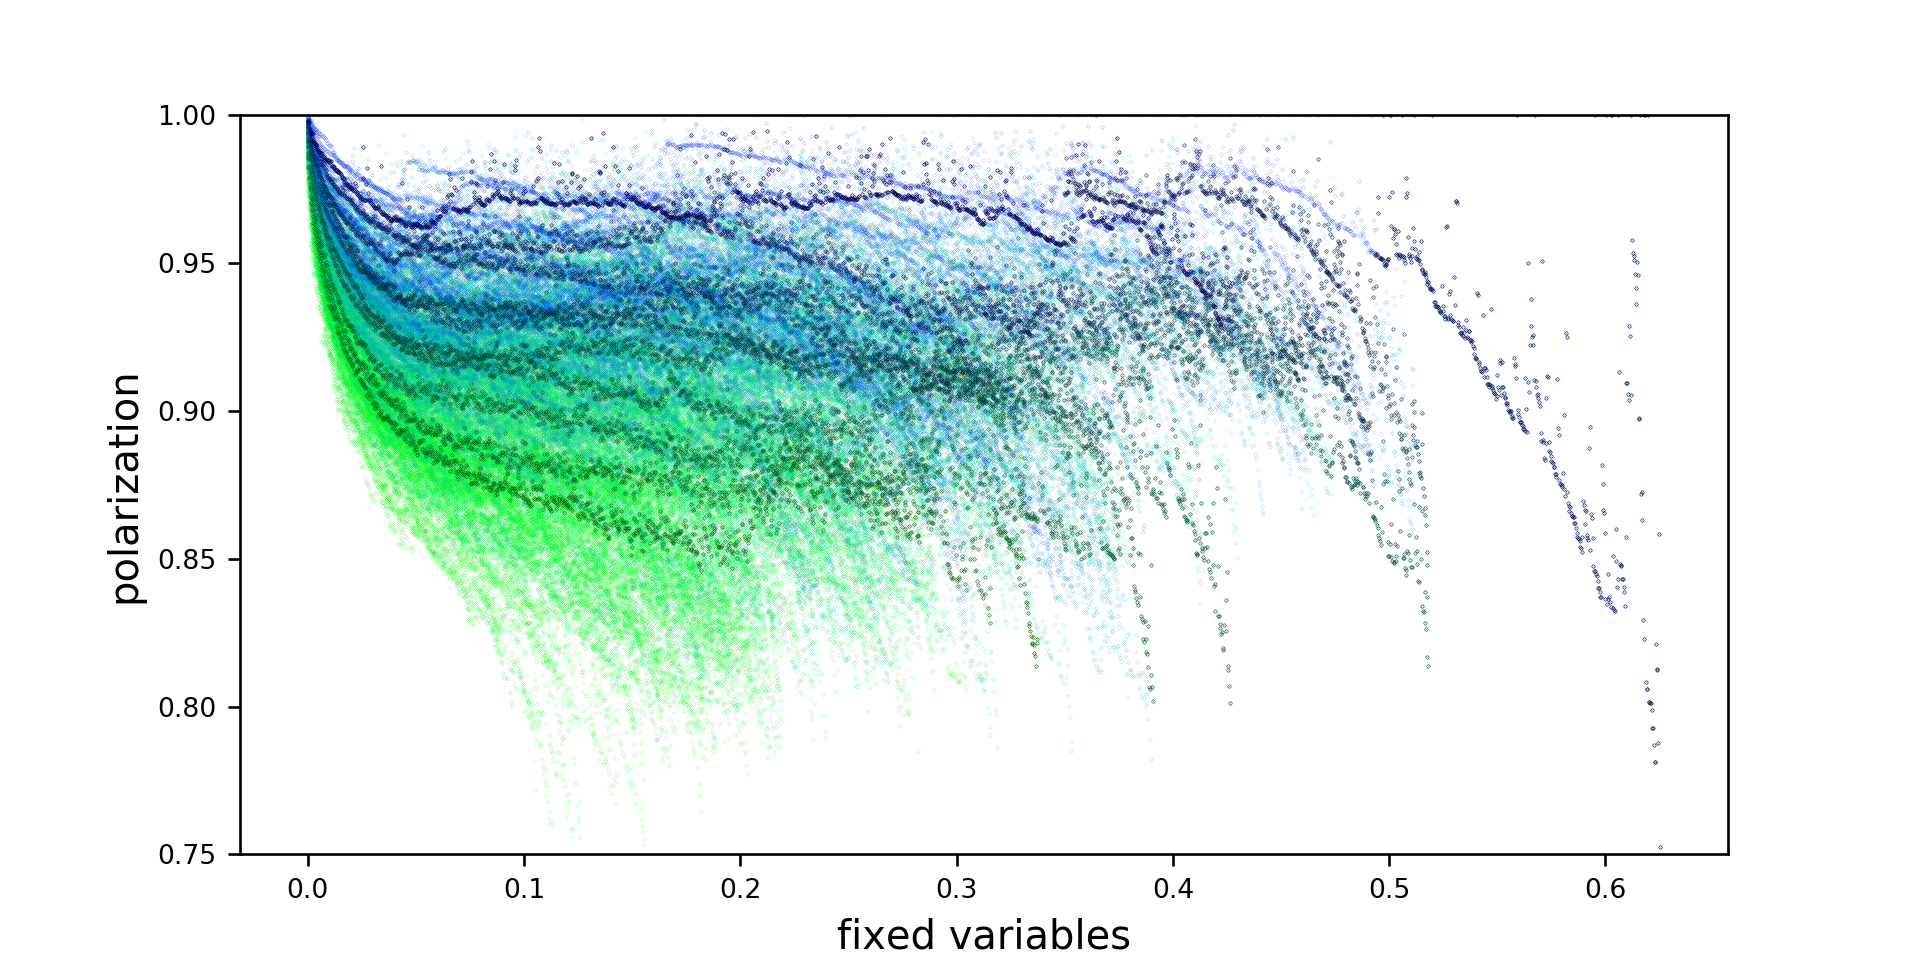
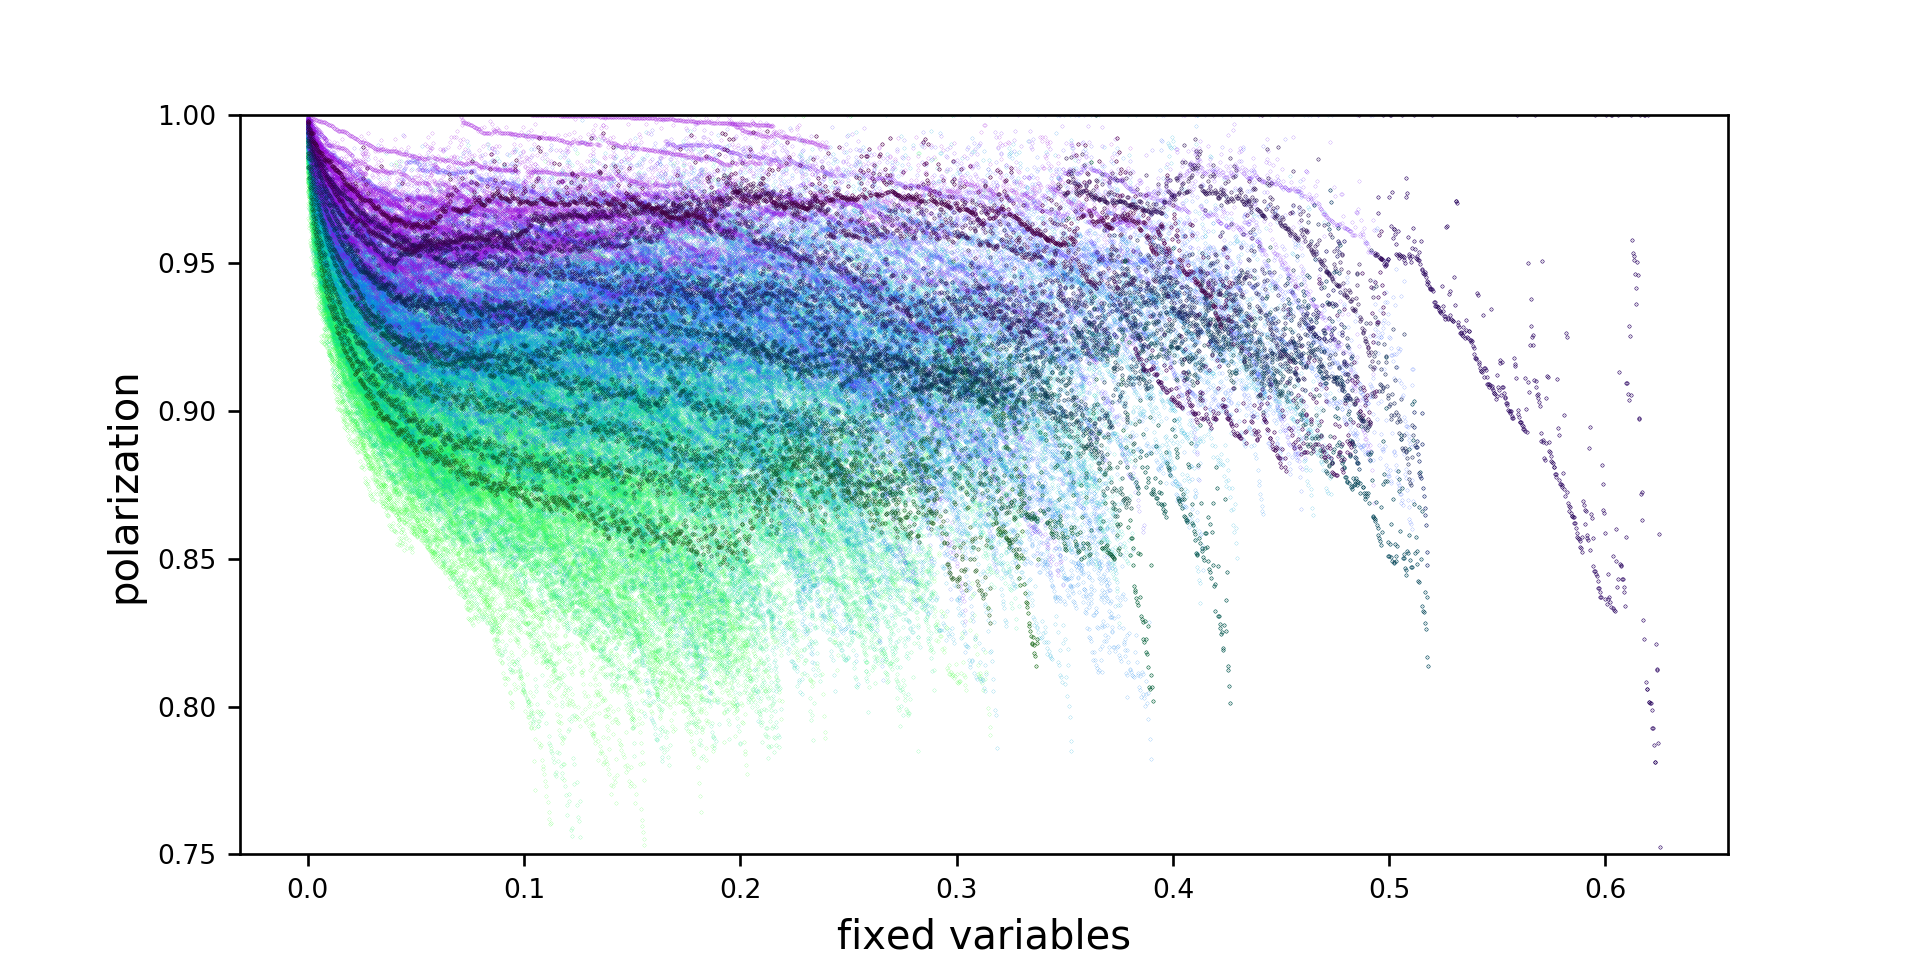
fast parallel version

Changed region(s): [[0.1562, 0.0938, 0.7188, 0.7188], [0.7812, 0.4062, 0.8125, 0.4375], [0.7188, 0.25, 0.75, 0.2812]]

diff --git a/plot/plot_survey_post.py b/plot/plot_survey_post.py
@@ -37,7 +37,18 @@ for M in range(M_min, M_max + N/10, N/10):
 
 series_count -= 1
 
-RAINBOW=True
+RAINBOW = (len(sys.argv) == 2 and sys.argv[1] == 'r')
+
+def get_color(ratio):
+  rate = -math.pi
+  phase = -2*math.pi/3
+  r = 0.5 + math.cos(ratio * rate + phase)/2
+  g = 0.5 + math.cos(ratio * rate + 2*math.pi/3 + phase)/2
+  b = 0.5 + math.cos(ratio * rate + 4*math.pi/3 + phase)/2
+  return (r, g, b)
+
+def darken(color):
+  return (color[0] / 3, color[1] / 3, color[2] / 3)
 
 # lines per M, all together
 set_settings('sigma (nats)', 'fixed variables')
@@ -48,7 +59,7 @@ if RAINBOW:
       color_ratio = float(color_counter) / series_count
     else:
       color_ratio = 0
-    cur_color_sample = (0., math.cos(color_ratio * math.pi/2), math.sin(color_ratio * math.pi/2))
+    cur_color_sample = get_color(color_ratio)
 
     try:
       step_sigma = np.load('plot/survey_pre/survey_{}_step_sigma.npy'.format(M))
@@ -76,9 +87,9 @@ for M in range(M_min, M_max + N/10, N/10):
     color_ratio = 0
 
   if RAINBOW:
-    cur_color_avg = (0., math.cos(color_ratio * math.pi/2)/3, math.sin(color_ratio * math.pi/2)/3)
+    cur_color_avg = darken(get_color(color_ratio))
   else:
-    cur_color_avg = (0., math.cos(color_ratio * math.pi/2), math.sin(color_ratio * math.pi/2))
+    cur_color_avg = get_color(color_ratio)
 
   try:
     avg_sigma = np.load('plot/survey_pre/survey_{}_avg_sigma.npy'.format(M))
@@ -105,7 +116,7 @@ if RAINBOW:
       color_ratio = float(color_counter) / series_count
     else:
       color_ratio = 0
-    cur_color_sample = (0., math.cos(color_ratio * math.pi/2), math.sin(color_ratio * math.pi/2))
+    cur_color_sample = get_color(color_ratio)
 
     try:
       step_polar= np.load('plot/survey_pre/survey_{}_step_polar.npy'.format(M))
@@ -133,9 +144,9 @@ for M in range(M_min, M_max*5 + N/10, N/10):
     color_ratio = 0
 
   if RAINBOW:
-    cur_color_avg = (0., math.cos(color_ratio * math.pi/2)/3, math.sin(color_ratio * math.pi/2)/3)
+    cur_color_avg = darken(get_color(color_ratio))
   else:
-    cur_color_avg = (0., math.cos(color_ratio * math.pi/2), math.sin(color_ratio * math.pi/2))
+    cur_color_avg = get_color(color_ratio)
 
   try:
     avg_polar = np.load('plot/survey_pre/survey_{}_avg_polar.npy'.format(M))

diff --git a/plot/plot_phase_post.py b/plot/plot_phase_post.py
@@ -32,7 +32,18 @@ for M in range(12240, 12900, 60):
 
 series_count -= 1
 
-RAINBOW=False
+RAINBOW = (len(sys.argv) == 2 and sys.argv[1] == 'r')
+
+def get_color(ratio):
+  rate = -math.pi
+  phase = -2*math.pi/3
+  r = 0.5 + math.cos(ratio * rate + phase)/2
+  g = 0.5 + math.cos(ratio * rate + 2*math.pi/3 + phase)/2
+  b = 0.5 + math.cos(ratio * rate + 4*math.pi/3 + phase)/2
+  return (r, g, b)
+
+def darken(color):
+  return (color[0] / 3, color[1] / 3, color[2] / 3)
 
 # lines per M, all together
 set_settings('sigma (nats)', 'fixed variables')
@@ -43,7 +54,7 @@ if RAINBOW:
       color_ratio = float(color_counter) / series_count
     else:
       color_ratio = 0
-    cur_color_sample = (0., math.cos(color_ratio * math.pi/2), math.sin(color_ratio * math.pi/2))
+    cur_color_sample = get_color(color_ratio)
 
     try:
       step_sigma = np.load('plot/phase_pre/phase_{}_step_sigma.npy'.format(M))
@@ -71,9 +82,9 @@ for M in range(12240, 12900, 60):
     color_ratio = 0
 
   if RAINBOW:
-    cur_color_avg = (0., math.cos(color_ratio * math.pi/2)/3, math.sin(color_ratio * math.pi/2)/3)
+    cur_color_avg = darken(get_color(color_ratio))
   else:
-    cur_color_avg = (0., math.cos(color_ratio * math.pi/2), math.sin(color_ratio * math.pi/2))
+    cur_color_avg = get_color(color_ratio)
 
   try:
     avg_sigma = np.load('plot/phase_pre/phase_{}_avg_sigma.npy'.format(M))
@@ -101,7 +112,7 @@ if RAINBOW:
       color_ratio = float(color_counter) / series_count
     else:
       color_ratio = 0
-    cur_color_sample = (0., math.cos(color_ratio * math.pi/2), math.sin(color_ratio * math.pi/2))
+    cur_color_sample = get_color(color_ratio)
 
     try:
       step_polar= np.load('plot/phase_pre/phase_{}_step_polar.npy'.format(M))
@@ -129,9 +140,9 @@ for M in range(12240, 12900, 60):
     color_ratio = 0
 
   if RAINBOW:
-    cur_color_avg = (0., math.cos(color_ratio * math.pi/2)/3, math.sin(color_ratio * math.pi/2)/3)
+    cur_color_avg = darken(get_color(color_ratio))
   else:
-    cur_color_avg = (0., math.cos(color_ratio * math.pi/2), math.sin(color_ratio * math.pi/2))
+    cur_color_avg = get_color(color_ratio)
 
   try:
     avg_polar = np.load('plot/phase_pre/phase_{}_avg_polar.npy'.format(M))

diff --git a/survey_omp.c b/survey_omp.c
@@ -82,7 +82,6 @@ int main(int argc, char *argv[]) {
   int *zero_th = calloc(8, sizeof(int));
 
   omp_lock_t *flocks = calloc(graph.M, sizeof(omp_lock_t));
-  #pragma omp parallel for num_threads(8)
   for (int a = 0; a < graph.M; a++) {
     omp_init_lock(&flocks[a]);
   }
@@ -407,7 +406,7 @@ int main(int argc, char *argv[]) {
     int *f = calloc(graph.M, sizeof(int)); // 1: satisfied, 0: still unsat
     int ff = 0; // count of satisfied factors
     int would_ff = 0; // would be sat if we picked the other direction
-    #pragma omp parallel for num_threads(8) reduction(+:ff,would_ff)
+    //#pragma omp parallel for num_threads(8) reduction(+:ff,would_ff)
     for (int a = 0; a < graph.v[fix].k; a++) {
       int b = graph.v[fix].f[a].f->a;
       if (f[b] != 1 && graph.v[fix].f[a].j * dir == -1) {
@@ -462,9 +461,15 @@ int main(int argc, char *argv[]) {
     // if the set var sat a clause, then that clause is already gone
     // if the set var doesn't sat a clause, then we still exclude it
     int *new_vi = calloc(ngraph.N, sizeof(int));
-    int ni = 0;
     edges = 0;
+    #pragma omp parallel for num_threads(8) reduction(+:edges)
     for (int i = 0; i < graph.N; i++) {
+      int ni;
+      if (i < fix) {
+        ni = i;
+      } else {
+        ni = i - 1;
+      }
       if (i != fix) { // variable still extant
         // track original index
         new_vi[ni] = orig_vi[i];
@@ -487,11 +492,11 @@ int main(int argc, char *argv[]) {
             ngraph.v[ni].f[vk - 1] = e;
 
             // add edge to clause
-            //omp_set_lock(flocks[na]);
+            omp_set_lock(&flocks[na]);
             int fk = ++ngraph.f[na].k;
             ngraph.f[na].v = realloc(ngraph.f[na].v, fk * sizeof(struct edge));
             ngraph.f[na].v[fk - 1] = e;
-            //omp_release_lock(flocks[na]);
+            omp_unset_lock(&flocks[na]);
 
             // copy old eta
             eta[ni] = realloc(eta[ni], vk * sizeof(float));
@@ -500,7 +505,6 @@ int main(int argc, char *argv[]) {
           }
         }
       }
-      ni++;
     }
 
     // clean up old warnings

diff --git a/survey.c b/survey.c
@@ -186,6 +186,16 @@ int main(int argc, char *argv[]) {
       printf("survey: unconverged after %d steps\n", steps);
       printf("survey: unconverged\n");
 
+      // clean up products
+      for (int a = 0; a < graph.M; a++) {
+        free(pi_u[a]);
+        free(pi_s[a]);
+        free(pi_0[a]);
+      }
+      free(pi_u);
+      free(pi_s);
+      free(pi_0);
+
       break;
     }
 

diff --git a/plot/plot_phase_pre.py b/plot/plot_phase_pre.py
@@ -26,7 +26,7 @@ for M in range(12240, 12900, 60):
 
     this_sigma = []
     this_polar = []
-    if True or subprocess.call(['grep', 'survey: sat', fn], stdout=devnull, stderr=devnull) == 0:
+    if subprocess.call(['grep', 'survey: sat', fn], stdout=devnull, stderr=devnull) == 0:
       for l in open(fn):
         sig = p_sigma.findall(l)
         if sig:
